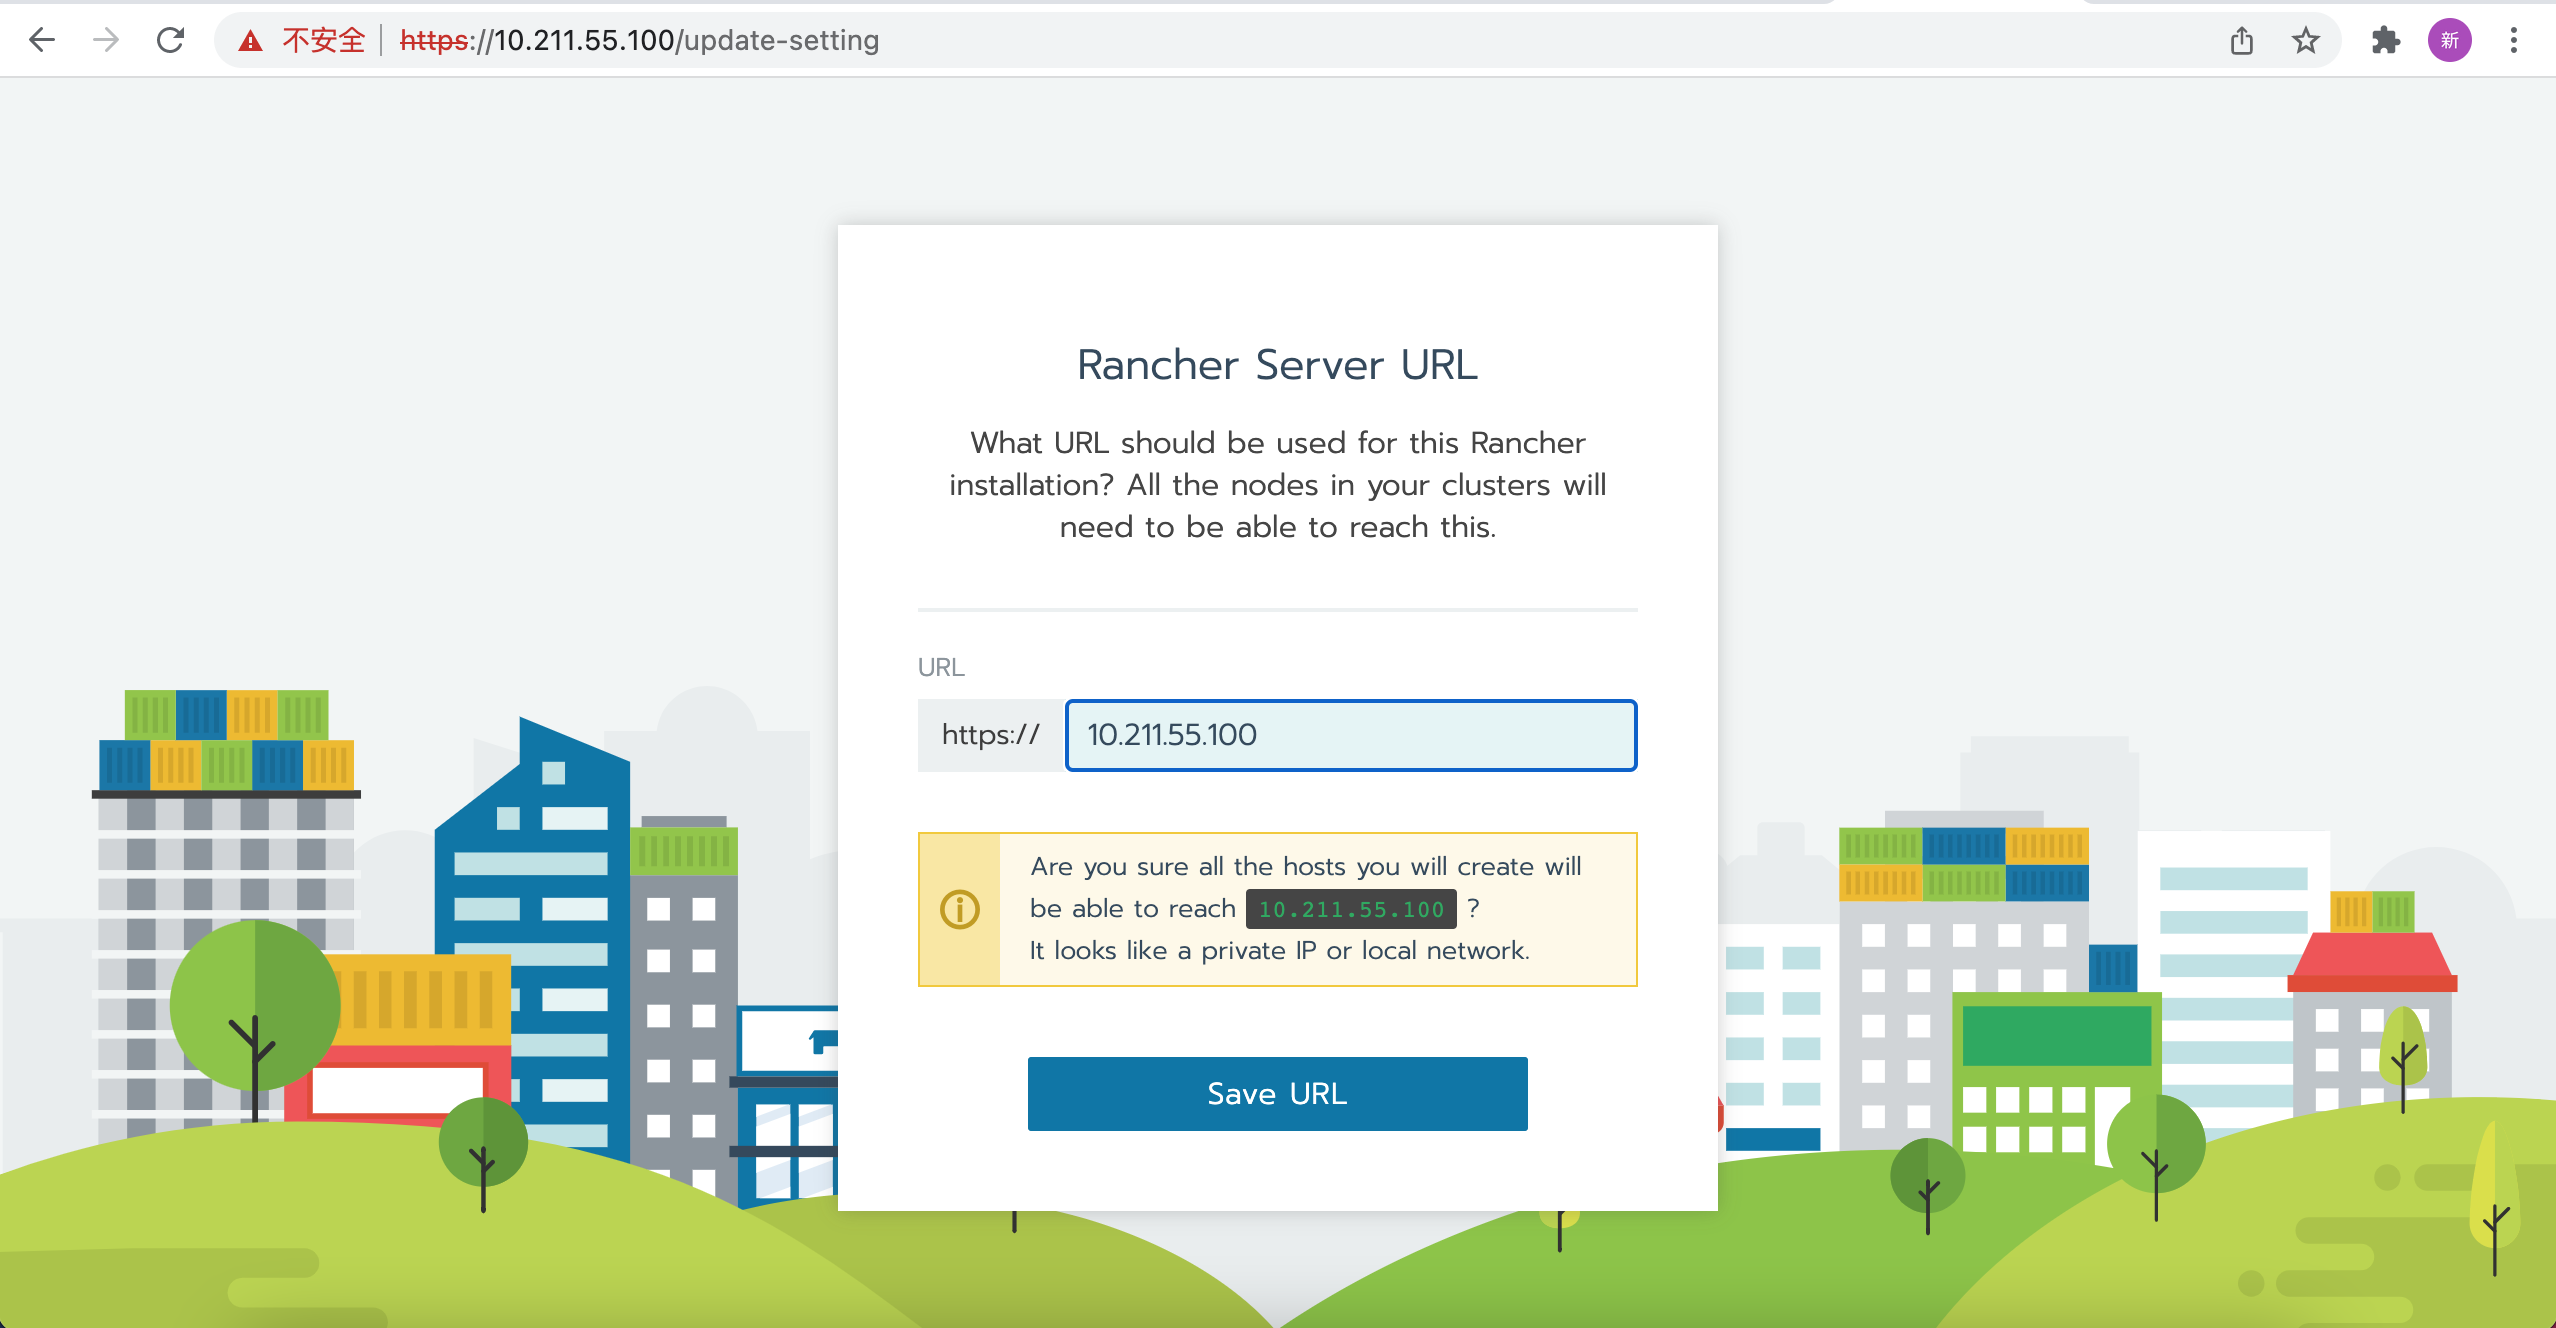
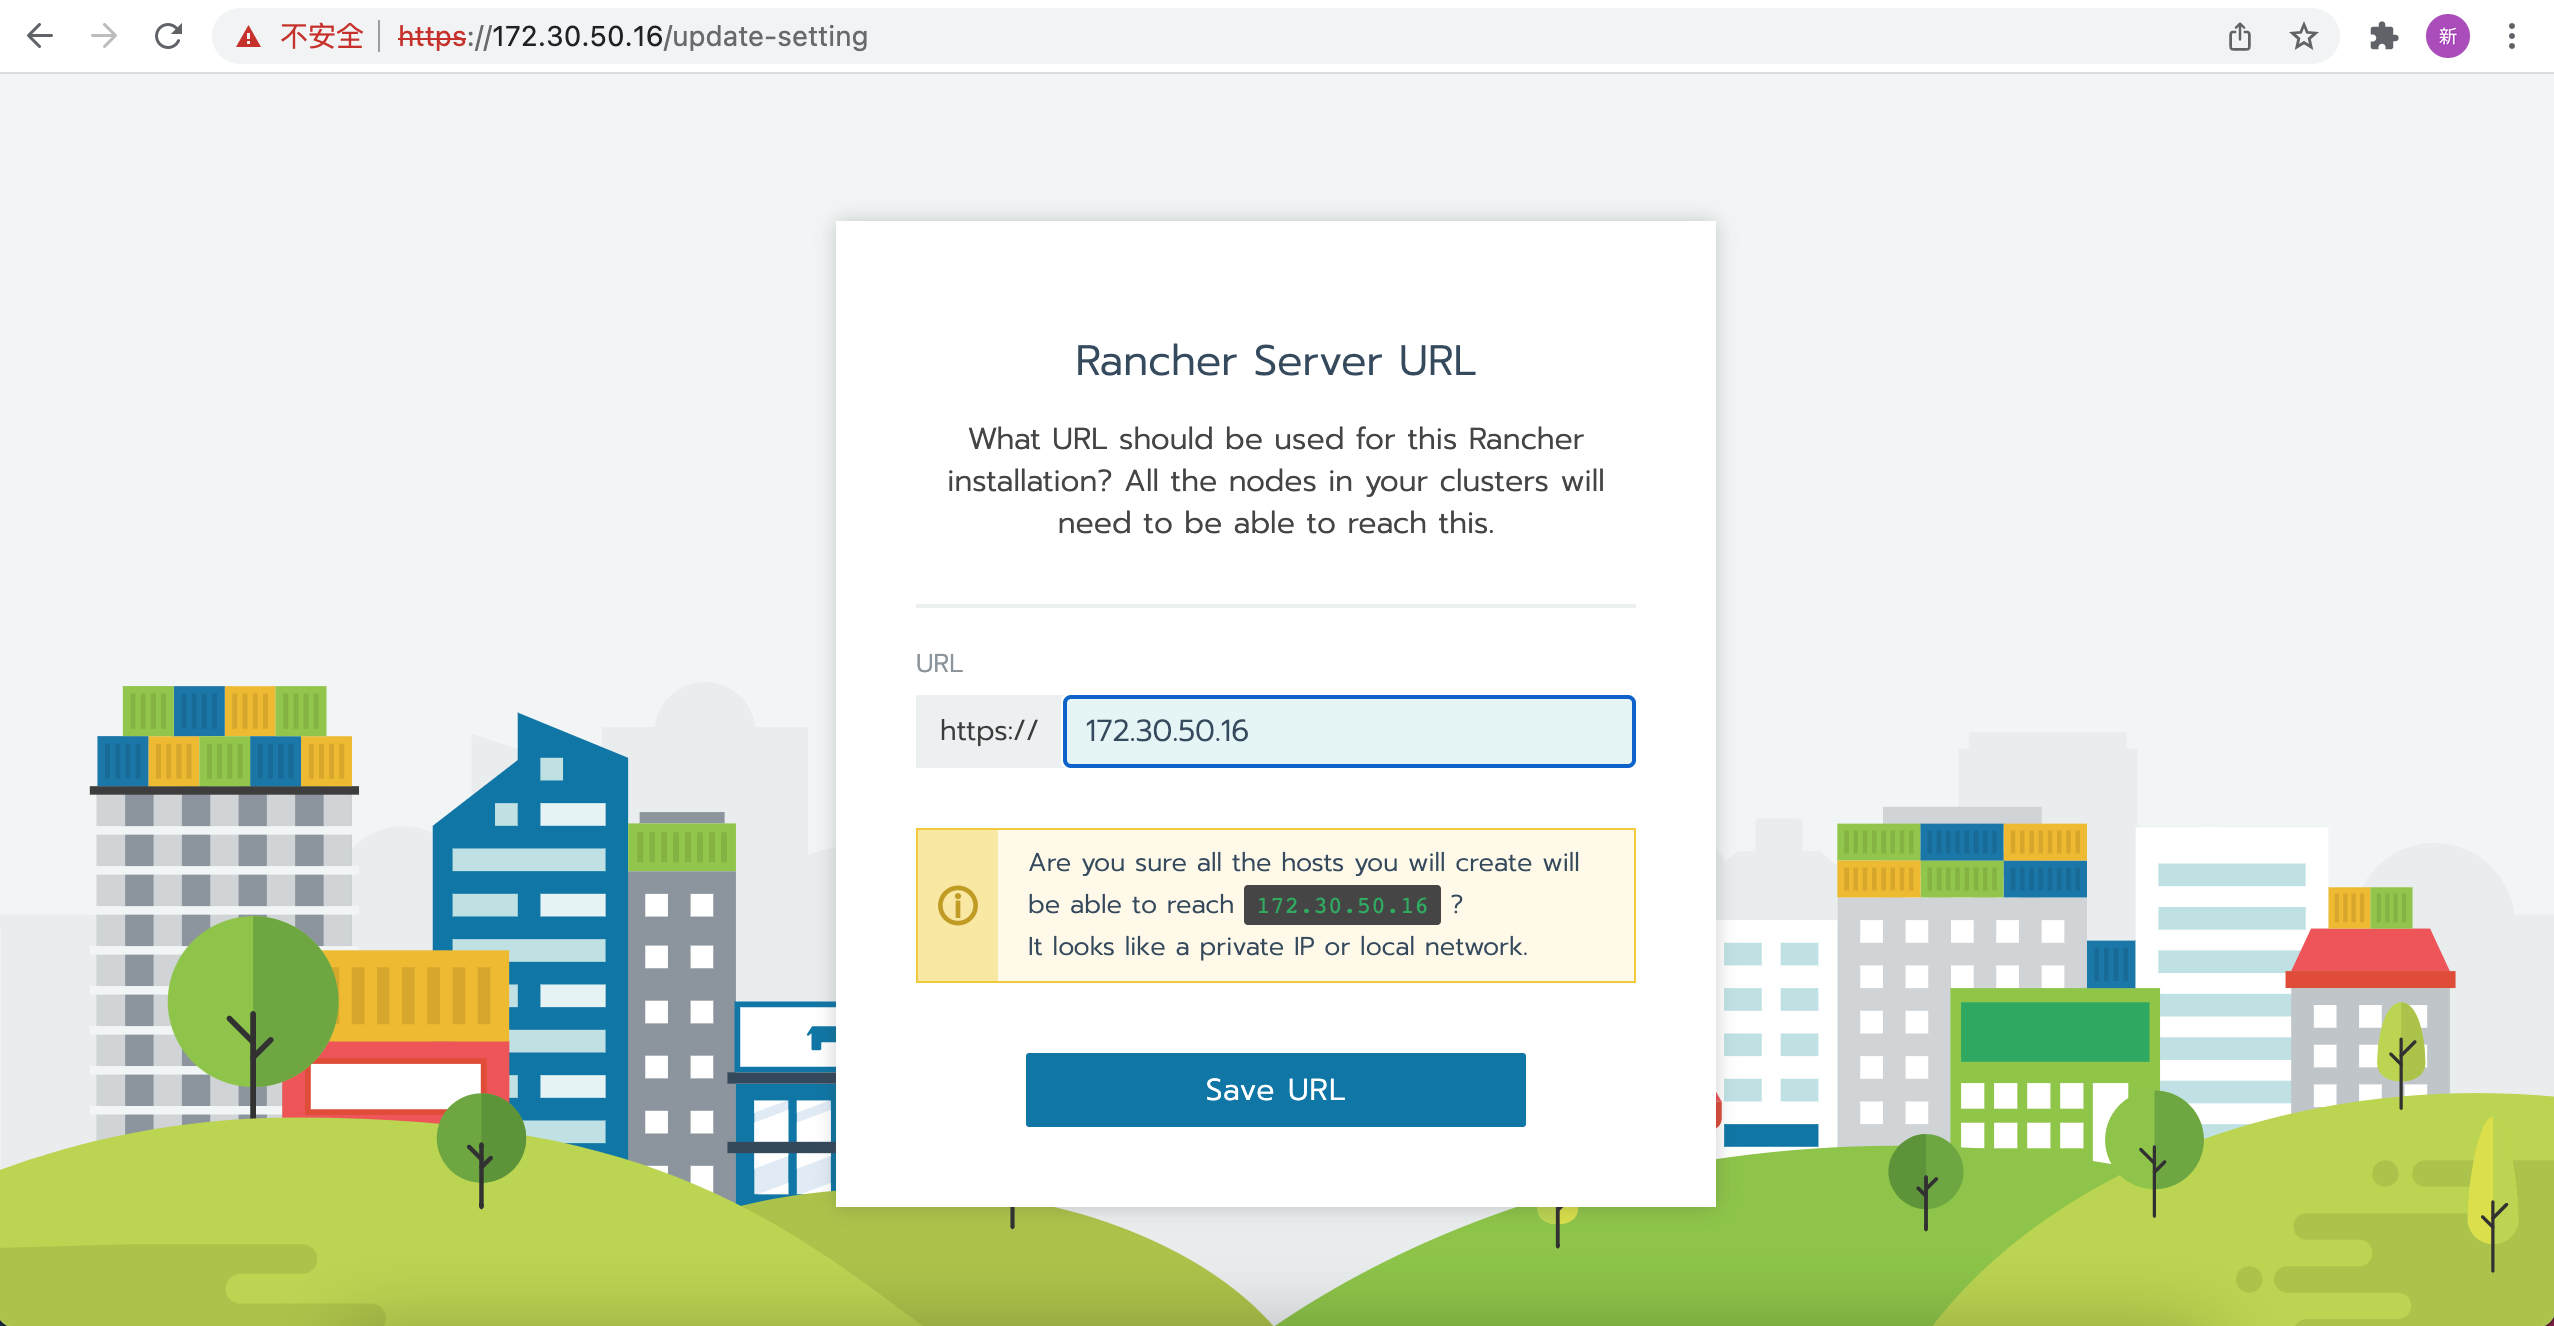
init blog

diff --git a/_posts/2022-02-04-Rancher-Install.md b/_posts/2022-02-04-Rancher-Install.md
@@ -10,24 +10,35 @@ tags:  Rancher
 
 ### (2). 机器准备
 
-|  机器名称           |           IP  |
-|  ----              |         ----  |
-| rancher-server     | 10.211.55.100 | 
-|  node-1            | 10.211.55.101 | 
+|  机器名称           |           IP  |           角色    |
+|  ----              |         ----  |         ----     |
+| rancher-server     |  172.30.50.16 |   rancher server | 
+| rancher-master     |  172.30.50.17 |   rancher master | 
+| rancher-node-1     |  172.30.50.18 |   rancher node   | 
 
 ### (3). Docker安装
 ```
-[root@rancher-server ~]# yum -y install yum-utils
-[root@rancher-server ~]# yum-config-manager --add-repo https://download.docker.com/linux/centos/docker-ce.repo
-[root@rancher-server ~]# yum install -y  docker-ce docker-ce-cli containerd.io
-[root@rancher-server ~]# systemctl start docker
-[root@rancher-server ~]# systemctl enable docker
+# 以下命令所有的机器都要执行.
+# 安装docker
+yum -y install yum-utils
+yum-config-manager --add-repo https://download.docker.com/linux/centos/docker-ce.repo
+yum install -y  docker-ce docker-ce-cli containerd.io
+systemctl start docker
+systemctl enable docker
 
-# 添加用户app到docker组
-[root@rancher-server ~]# gpasswd -a app docker
-[root@rancher-server ~]# systemctl restart docker
+# 创建app用户,并添加用户到docker组
+gpasswd -a app docker
+systemctl restart docker
 
-# 创建rancher目录
+# 防火墙开放2380端口
+firewall-cmd  --zone=public --add-port=2380/tcp --permanent
+firewall-cmd  --reload
+
+yum -y install wget
+```
+### (5). Rancher Server安装前准备
+```
+# 创建rancher server数据目录
 [root@rancher-server ~]# mkdir -p /opt/rancher_home/rancher
 [root@rancher-server ~]# mkdir -p /opt/rancher_home/log/auditlog
 [root@rancher-server ~]# chown -R app:app /opt
@@ -35,10 +46,10 @@ tags:  Rancher
 # 防火墙开启端口
 [root@rancher-server ~]# firewall-cmd  --zone=public --add-port=80/tcp --permanent
 [root@rancher-server ~]# firewall-cmd  --zone=public --add-port=443/tcp --permanent
+[root@rancher-server ~]# firewall-cmd  --zone=public --add-port=2380/tcp --permanent
 [root@rancher-server ~]# firewall-cmd  --reload
-
 ```
-### (4). Rancher镜像拉取
+### (6). Rancher Server镜像拉取
 ```
 [app@rancher-1 ~]$ docker pull rancher/rancher:v2.4.17  
 Using default tag: latest
@@ -65,7 +76,7 @@ Digest: sha256:f411ee37efa38d7891c11ecdd5c60ca73eb03dcd32296678af808f6b4ecccfff
 Status: Downloaded newer image for rancher/rancher:latest
 docker.io/rancher/rancher:latest
 ```
-### (5). Rancher运行
+### (7). 运行Rancher Server
 ```
 [app@rancher-1 ~]$ docker run -d  --privileged --restart=unless-stopped -p 80:80 -p 443:443 \
 -e CATTLE_SYSTEM_CATALOG=bundled \
@@ -74,13 +85,118 @@ docker.io/rancher/rancher:latest
 -v /opt/rancher_home/log/auditlog:/var/log/auditlog \
 --name rancher rancher/rancher:v2.4.17 
 ```
-### (6). 查看运行的Rancher容器
+### (8). 查看运行的Rancher Server容器
 [app@rancher-server ~]$ docker ps
 CONTAINER ID   IMAGE                     COMMAND           CREATED         STATUS         PORTS                                                                      NAMES
-e1a91df8d77b   rancher/rancher:v2.4.17   "entrypoint.sh"   3 minutes ago   Up 3 minutes   0.0.0.0:80->80/tcp, :::80->80/tcp, 0.0.0.0:443->443/tcp, :::443->443/tcp   rancher
-### (7). Rancher登录界面
-!["Rancher登录页面"](/assets/rancher/imgs/rancher-home.png)   
+7e2fe3d86726   rancher/rancher:v2.4.17   "entrypoint.sh"   4 minutes ago   Up 4 minutes   0.0.0.0:80->80/tcp, :::80->80/tcp, 0.0.0.0:443->443/tcp, :::443->443/tcp   rancher
+### (9). Rancher Server登录界面
+!["Rancher设置密码页面"](/assets/rancher/imgs/rancher-pwd.png)   
 !["Rancher配置URL"](/assets/rancher/imgs/rancher-set-server-url.png)
-!["Rancher首页"](/assets/rancher/imgs/rancher-home2.png)
-### (8). 总结
-Rancher的版本
+!["Rancher首页"](/assets/rancher/imgs/rancher-home.png)
+### (10). Rancher Server安装K8S
+!["Rancher 安装K8S"](/assets/rancher/imgs/rancher-add-cluster.png)
+!["Rancher 安装K8S"](/assets/rancher/imgs/rancher-add-cluster-2.png)
+!["Rancher 安装K8S"](/assets/rancher/imgs/rancher-add-cluster-3.png)
+!["Rancher 安装K8S"](/assets/rancher/imgs/rancher-add-cluster-4.png)
+!["Rancher 安装K8S"](/assets/rancher/imgs/rancher-add-cluster-5.png)
+### (11). Rancher Server查看Rancher Master加入集群信息
+!["Rancher Server查看Rancher Master加入集群信息"](/assets/rancher/imgs/rancher-master.png)
+### (12). Rancher Master加入集群
+```
+# 注意要以root身份运行
+[root@rancher-master ~]# docker run -d --privileged --restart=unless-stopped --net=host -v /etc/kubernetes:/etc/kubernetes -v /var/run:/var/run rancher/rancher-agent:v2.4.17 --server https://172.30.50.16 --token 5s22qsk5qrm4mxfkj8k6hcf9fq69z6nh2bcsr55wkdxxg5lgcp2zz4 --ca-checksum 9fe2422f4eb5b94ab26206e09c324d3e4a07649b58cf8a7b2ad0c3510aa3d813 --etcd --controlplane
+```
+### (13). Rancher Server查看Rancher Work加入集群信息
+!["Rancher Server查看Rancher Work加入集群信息"](/assets/rancher/imgs/rancher-work.png)
+### (14). Rancher Work加入集群
+```
+docker run -d --privileged --restart=unless-stopped --net=host -v /etc/kubernetes:/etc/kubernetes -v /var/run:/var/run rancher/rancher-agent:v2.4.17 --server https://172.30.50.16 --token hsxgspcld9855xz52j4xjcfdcxtp9mqkznl44f6khnbcl2l25hf5mx --ca-checksum 9fe2422f4eb5b94ab26206e09c324d3e4a07649b58cf8a7b2ad0c3510aa3d813 --worker
+```
+### (15). 
+```
+[root@rancher-master ~]# wget http://rancher-mirror.cnrancher.com/kubectl/v1.18.20/linux-amd64-v1.18.20-kubectl
+[root@rancher-master ~]# mv linux-amd64-v1.18.20-kubectl /usr/sbin/kubectl
+[root@rancher-master ~]# chmod 777 /usr/sbin/kubectl
+
+# 切换到app用户
+[app@rancher-master ~]$ mkdir .kube
+
+cat >>  ~/.kube/config << EOF
+ apiVersion: v1
+ kind: Config
+ clusters:
+ - name: "gerp-rancher"
+   cluster:
+     server: "https://172.30.50.16/k8s/clusters/c-6j4lz"
+     certificate-authority-data: "LS0tLS1CRUdJTiBDRVJUSUZJQ0FURS0tLS0tCk1JSUJoekNDQ\
[9 lines of base64/hex data omitted]
+       2RFVDY1YWtLMVR0Q0E9Ci0tLS0tRU5EIENFUlRJRklDQVRFLS0tLS0="
+ - name: "gerp-rancher-rancher-master"
+   cluster:
+     server: "https://172.30.50.17:6443"
+     certificate-authority-data: "LS0tLS1CRUdJTiBDRVJUSUZJQ0FURS0tLS0tCk1JSUN3akNDQ\
[17 lines of base64/hex data omitted]
+       klDQVRFLS0tLS0K"
+ 
+ users:
+ - name: "gerp-rancher"
+   user:
+     token: "kubeconfig-user-pwfzk.c-6j4lz:kwwrx9tknh2bsx5rdv9m5dd46g5pb5l4sj56qh8ldd776wvqrsgcfj"
+ 
+ 
+ contexts:
+ - name: "gerp-rancher"
+   context:
+     user: "gerp-rancher"
+     cluster: "gerp-rancher"
+ - name: "gerp-rancher-rancher-master"
+   context:
+     user: "gerp-rancher"
+     cluster: "gerp-rancher-rancher-master"
+ 
+ current-context: "gerp-rancher"
+EOF
+
+
+```
+### (16). 
+
+### (17). 
+
+### (18). 
+
+### (19). 
+
+### (20). 
+
+### (21). 
+
+### (22). 
+
+### (23). 
+
+### (24). 
